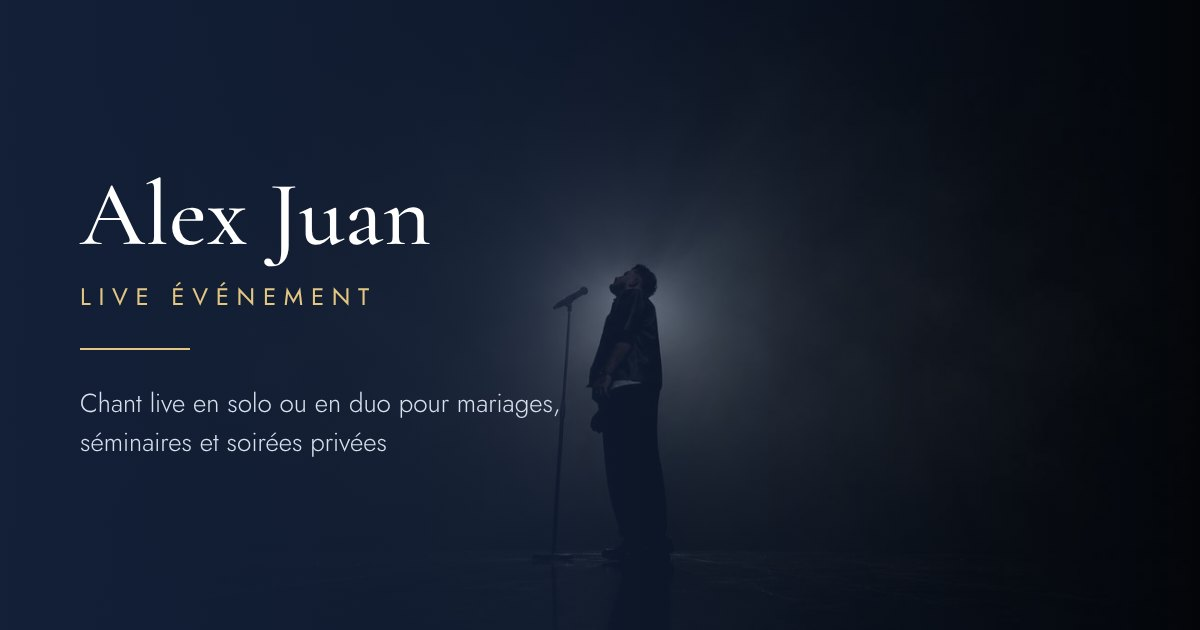
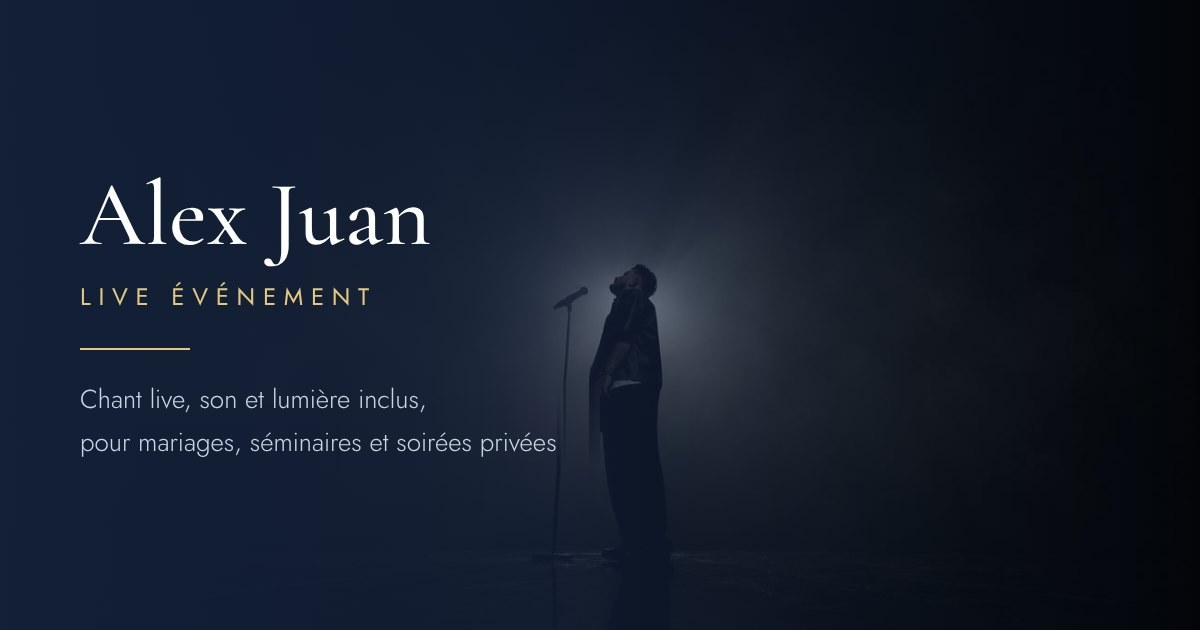
Retrait de Camille du site, du formulaire et de l'espace pro
- Équipe : Alex Juan et Antonin (« Deux talents, une seule équipe »)
- Textes, descriptions et image de partage sans « solo ou duo »
- Formulaire sans choix d'artiste ; formule unique dans les devis

Claude-Session: https://claude.ai/code/session_01Bc1aB6jKnjq8iinLhSTLZx

Changed region(s): [[0.0617, 0.6032, 0.4625, 0.6635], [0.0617, 0.6937, 0.4625, 0.7238]]

diff --git a/index.html b/index.html
@@ -4,7 +4,7 @@
 <meta charset="utf-8">
 <meta name="viewport" content="width=device-width, initial-scale=1, viewport-fit=cover">
 <title>Chanteur live pour mariage à Bordeaux et en Gironde | Alex Juan Live Événement</title>
-<meta name="description" content="Alex Juan Live Événement : chanteurs live en solo ou en duo, son et lumière inclus, pour mariages, séminaires et soirées privées. Basés près de Bordeaux (Gironde), nous intervenons dans toute la Nouvelle-Aquitaine et partout en France.">
+<meta name="description" content="Alex Juan Live Événement : chant live, son et lumière inclus, pour mariages, séminaires et soirées privées. Basés près de Bordeaux (Gironde), nous intervenons dans toute la Nouvelle-Aquitaine et partout en France.">
 <link rel="alternate" hreflang="fr" href="https://live.alexjuan.com/">
 <link rel="alternate" hreflang="en" href="https://live.alexjuan.com/en/">
 <link rel="alternate" hreflang="x-default" href="https://live.alexjuan.com/">
@@ -21,9 +21,9 @@
 <meta property="og:locale" content="fr_FR">
 <meta property="og:site_name" content="Alex Juan Live Événement">
 <meta property="og:title" content="Alex Juan Live Événement">
-<meta property="og:description" content="Chant live en solo ou en duo, son et lumière inclus, pour mariages, séminaires et soirées privées. Basés près de Bordeaux, partout en France.">
+<meta property="og:description" content="Chant live, son et lumière inclus, pour mariages, séminaires et soirées privées. Basés près de Bordeaux, partout en France.">
 <meta property="og:url" content="https://live.alexjuan.com/">
-<meta property="og:image" content="https://live.alexjuan.com/assets/og-image.jpg?v=2">
+<meta property="og:image" content="https://live.alexjuan.com/assets/og-image.jpg?v=3">
 <meta property="og:image:width" content="1200">
 <meta property="og:image:height" content="630">
 <meta name="twitter:card" content="summary_large_image">
@@ -363,7 +363,7 @@ nav .langmenu a[aria-current]::after{content:"✓"}
 .hero .eq i{width:2px;height:4px;animation-name:barsoft}
 @keyframes barsoft{50%{height:18px}}
 </style>
-<script type="application/ld+json">{"@context":"https://schema.org","@type":["MusicGroup","LocalBusiness"],"name":"Alex Juan Live Événement","description":"Chant live en solo ou en duo, son et lumière inclus, pour mariages, séminaires et soirées privées.","url":"https://live.alexjuan.com/","email":"contact@alexjuan.com","telephone":"+33627330380","address":{"@type":"PostalAddress","streetAddress":"6 avenue Maryse Bastié","addressLocality":"Bruges","postalCode":"33520","addressRegion":"Gironde","addressCountry":"FR"},"sameAs":["https://www.instagram.com/alexjuanoff/","https://www.tiktok.com/@alexjuanoff","https://www.youtube.com/@alexjuanofficiel","https://open.spotify.com/artist/4G3rz3swIwkBHNyaX5E4CF"],"image":"https://live.alexjuan.com/assets/og-image.jpg?v=2","areaServed":[{"@type":"City","name":"Bordeaux"},{"@type":"AdministrativeArea","name":"Gironde"},{"@type":"AdministrativeArea","name":"Nouvelle-Aquitaine"},{"@type":"Country","name":"France"}],"genre":["Chanson française","Variété"]}</script>
+<script type="application/ld+json">{"@context":"https://schema.org","@type":["MusicGroup","LocalBusiness"],"name":"Alex Juan Live Événement","description":"Chant live, son et lumière inclus, pour mariages, séminaires et soirées privées.","url":"https://live.alexjuan.com/","email":"contact@alexjuan.com","telephone":"+33627330380","address":{"@type":"PostalAddress","streetAddress":"6 avenue Maryse Bastié","addressLocality":"Bruges","postalCode":"33520","addressRegion":"Gironde","addressCountry":"FR"},"sameAs":["https://www.instagram.com/alexjuanoff/","https://www.tiktok.com/@alexjuanoff","https://www.youtube.com/@alexjuanofficiel","https://open.spotify.com/artist/4G3rz3swIwkBHNyaX5E4CF"],"image":"https://live.alexjuan.com/assets/og-image.jpg?v=3","areaServed":[{"@type":"City","name":"Bordeaux"},{"@type":"AdministrativeArea","name":"Gironde"},{"@type":"AdministrativeArea","name":"Nouvelle-Aquitaine"},{"@type":"Country","name":"France"}],"genre":["Chanson française","Variété"]}</script>
 <script type="application/ld+json">{"@context":"https://schema.org","@type":"FAQPage","mainEntity":[{"@type":"Question","name":"Combien de temps dure une prestation ?","acceptedAnswer":{"@type":"Answer","text":"De 1 h à la soirée entière, selon vos besoins."}},{"@type":"Question","name":"Vous déplacez-vous loin ?","acceptedAnswer":{"@type":"Answer","text":"Partout en France et à l'étranger. Les frais de déplacement sont inclus dans le devis."}},{"@type":"Question","name":"Combien de temps à l'avance faut-il réserver ?","acceptedAnswer":{"@type":"Answer","text":"Le plus tôt possible : les samedis de mai à septembre partent vite, souvent 6 à 12 mois avant."}},{"@type":"Question","name":"De quoi avez-vous besoin sur place ?","acceptedAnswer":{"@type":"Answer","text":"D'une prise électrique et d'un espace d'environ 3 × 3 m. Nous apportons tout le son et la lumière."}},{"@type":"Question","name":"Pouvez-vous chanter une chanson qui n'est pas dans votre répertoire ?","acceptedAnswer":{"@type":"Answer","text":"Oui, sur demande, si vous nous la donnez au moins 1 mois avant l'événement."}},{"@type":"Question","name":"Jouez-vous en extérieur ?","acceptedAnswer":{"@type":"Answer","text":"Oui, à condition d'avoir un abri en cas de pluie."}},{"@type":"Question","name":"Faut-il prévoir un repas pour l'équipe ?","acceptedAnswer":{"@type":"Answer","text":"Pour une prestation qui couvre le dîner, nous vous demandons de prévoir un repas pour l'équipe."}}]}</script>
 </head>
 <body>
@@ -394,7 +394,7 @@ nav .langmenu a[aria-current]::after{content:"✓"}
 </g>
 </svg>
 <h1 class="split">Un show live <span class="gold">d'exception</span> pour vos plus beaux moments</h1>
-<p>Alex Juan, Camille ou les deux en duo, avec son et lumière inclus : mariages, séminaires et soirées d'entreprise, depuis Bordeaux et partout en France.</p>
+<p>Alex Juan en live, avec son et lumière inclus : mariages, séminaires et soirées d'entreprise, depuis Bordeaux et partout en France.</p>
 <a href="#contact" class="btn">Demander un devis gratuit</a>
 <div class="eq" aria-hidden="true"></div>
 </div>
@@ -423,7 +423,7 @@ nav .langmenu a[aria-current]::after{content:"✓"}
 <div class="duo2"><div class="steps" style="text-align:left;margin:0;max-width:none">
 <div class="step rv"><h3>Accueil et cocktail</h3><p>Ambiance douce, voix posées et reprises élégantes.</p></div>
 <div class="step rv"><h3>Dîner</h3><p>Des sets calibrés pour laisser place aux discussions et aux discours.</p></div>
-<div class="step rv"><h3>Le grand show</h3><p>Le show prend toute sa dimension : medleys, moments forts et, en formule duo, des duos Alex & Camille.</p></div>
+<div class="step rv"><h3>Le grand show</h3><p>Le show prend toute sa dimension : medleys, moments forts et refrains repris en chœur par vos invités.</p></div>
 <div class="step rv"><h3>Ouverture de bal</h3><p>La piste s'ouvre sur les chansons que tout le monde chante.</p></div>
 </div>
 <div class="pic tall alive"><img src="assets/concert.jpg" alt="Moment de concert au milieu du public"></div>
@@ -457,11 +457,10 @@ nav .langmenu a[aria-current]::after{content:"✓"}
 
 <section class="team" id="equipe">
 <div class="wrap center">
-<h2 class="split">Trois talents, une seule équipe</h2>
+<h2 class="split">Deux talents, une seule équipe</h2>
 <p class="lead rv">Une équipe qui travaille ensemble, de l'installation au dernier rappel.</p>
 <div class="grid">
 <div class="card rv"><div class="avatar"><img src="assets/avatar-alex.jpg?v=2" alt="Alex Juan"></div><h3>Alex Juan</h3><p>Chanteur et voix du show. Il porte le spectacle et construit le répertoire avec vous.</p></div>
-<div class="card rv"><div class="avatar"><img src="assets/avatar-camille.jpg?v=2" alt="Camille" loading="lazy"></div><h3>Camille</h3><p>Chanteuse et choriste. Elle prend la scène en solo sur certains titres, partage des duos avec Alex et apporte de la profondeur aux voix.</p></div>
 <div class="card rv"><div class="avatar"><img src="assets/avatar-antonin.jpg?v=2" alt="Antonin" loading="lazy"></div><h3>Antonin</h3><p>Ingénieur son et lumière. Présent à chaque prestation, il installe, règle et veille à ce que chaque invité entende et voie parfaitement.</p></div>
 </div>
 </div>
@@ -502,7 +501,7 @@ nav .langmenu a[aria-current]::after{content:"✓"}
 <label class="dt" id="dt-wrap"><span>Date de l'événement</span><input id="f-date" type="date" aria-label="Date de l'événement"></label>
 <div class="ac"><input id="f-lieu" placeholder="Lieu (ville, salle…)" aria-label="Lieu de l'événement" autocomplete="off" role="combobox" aria-autocomplete="list" aria-expanded="false" aria-controls="lieu-list"><ul id="lieu-list" role="listbox" hidden></ul></div>
 <select id="f-type" aria-label="Type d'événement"><option>Mariage</option><option>Séminaire / entreprise</option><option>Événement privé</option></select>
-<fieldset class="artists" id="f-artist"><legend>Artiste souhaité</legend><div class="art-row"><label class="art"><input type="radio" name="artiste" value="Alex Juan"><span class="art-in"><span class="art-pics"><img src="assets/avatar-alex.jpg?v=2" alt=""></span><b>Alex Juan</b><small>en solo</small></span></label><label class="art"><input type="radio" name="artiste" value="Camille"><span class="art-in"><span class="art-pics"><img src="assets/avatar-camille.jpg?v=2" alt=""></span><b>Camille</b><small>en solo</small></span></label><label class="art"><input type="radio" name="artiste" value="Alex & Camille"><span class="art-in"><span class="art-pics"><img src="assets/avatar-alex.jpg?v=2" alt=""><img src="assets/avatar-camille.jpg?v=2" alt=""></span><b>Alex & Camille</b><small>en duo</small></span></label></div><p class="art-note">Antonin, notre ingénieur son et lumière, est présent à chaque prestation.</p></fieldset>
+<p class="art-note">Antonin, notre ingénieur son et lumière, est présent à chaque prestation.</p>
 <textarea id="f-msg" rows="10" placeholder="Un mot sur votre projet" aria-label="Votre message"></textarea>
 </div>
 <button class="btn" id="send" type="button">Envoyer ma demande</button>
@@ -573,14 +572,13 @@ inp.addEventListener('keydown',function(e){if(ul.hidden)return;if(e.key==='Arrow
 else if(e.key==='Enter'&&cur>=0){e.preventDefault();pick(cur)}else if(e.key==='Escape')close()});
 inp.addEventListener('blur',function(){setTimeout(close,150)})})();
 // Sends the request straight to the inbox through FormSubmit; falls back to the visitor's mail app if the service can't be reached.
-[].forEach.call(document.querySelectorAll('input[name=artiste]'),function(r){r.addEventListener('change',function(){document.getElementById('f-artist').classList.remove('bad')})});
 var MAIL='contact@alexjuan.com',FORM_ID='7e1adee14a65debe62f66d12ed0c07de',btn=document.getElementById('send'),st=document.getElementById('f-status');
 function say(t,c){st.textContent=t;st.className='fstatus'+(c?' '+c:'')}
 btn.onclick=function(){
 var v=function(i){return document.getElementById(i).value.trim()};
 if(v('f-honey'))return;
 var miss=[];[['f-nom','votre nom'],['f-email','votre email']].forEach(function(f){var el=document.getElementById(f[0]),bad=!v(f[0])||(f[0]==='f-email'&&!el.checkValidity());el.classList.toggle('bad',bad);if(bad)miss.push(f[1])});
-var art=document.querySelector('input[name=artiste]:checked'),artBox=document.getElementById('f-artist');artBox.classList.toggle('bad',!art);if(!art)miss.push('l\'artiste souhaité');
+var art={value:'Alex Juan'};
 if(miss.length){say('Merci d\'indiquer '+miss.join(' et ')+'.','err');return}
 var d=v('f-date'),dd=d?new Date(d+'T12:00').toLocaleDateString('fr-FR',{weekday:'long',day:'numeric',month:'long',year:'numeric'}):'';
 var data={_subject:'Nouvelle demande – '+v('f-type')+' – '+art.value+(dd?' le '+dd:''),_replyto:v('f-email'),_template:'table',
@@ -590,7 +588,7 @@ data['Devis']='live.alexjuan.com/pro/?'+new URLSearchParams({nom:v('f-nom'),emai
 btn.disabled=true;say('Envoi en cours…');
 fetch('https://formsubmit.co/ajax/'+FORM_ID,{method:'POST',headers:{'Content-Type':'application/json','Accept':'application/json'},body:JSON.stringify(data)})
 .then(function(r){return r.json().then(function(j){if(!r.ok||String(j.success)!=='true')throw 0})})
-.then(function(){say('Merci ! Votre demande est bien envoyée, nous vous répondons sous 24 h.','ok');['f-nom','f-email','f-tel','f-lieu','f-date'].forEach(function(i){document.getElementById(i).value=''});dw.classList.remove('has');var c=document.querySelector('input[name=artiste]:checked');if(c)c.checked=false;edited=false;fill()})
+.then(function(){say('Merci ! Votre demande est bien envoyée, nous vous répondons sous 24 h.','ok');['f-nom','f-email','f-tel','f-lieu','f-date'].forEach(function(i){document.getElementById(i).value=''});dw.classList.remove('has');edited=false;fill()})
 .catch(function(){say('L\'envoi n\'a pas fonctionné : votre messagerie va s\'ouvrir pour nous écrire directement.','err');
 var body='Nom : '+data['Nom']+'\nEmail : '+data['Email']+'\nTéléphone : '+data['Téléphone']+'\nDate : '+dd+'\nLieu : '+data['Lieu']+'\nType : '+data['Type']+'\nArtiste : '+data['Artiste']+'\n\n'+data['Message'];
 location.href='mailto:'+MAIL+'?subject='+encodeURIComponent('Demande de devis')+'&body='+encodeURIComponent(body)})

diff --git a/en/index.html b/en/index.html
@@ -4,7 +4,7 @@
 <meta charset="utf-8">
 <meta name="viewport" content="width=device-width, initial-scale=1, viewport-fit=cover">
 <title>Live wedding singer in Bordeaux, France | Alex Juan Live Événement</title>
-<meta name="description" content="Alex Juan Live Événement: live singers solo or as a duo, sound and lighting included, for weddings, corporate events and private parties. Based near Bordeaux, France, available across France and abroad.">
+<meta name="description" content="Alex Juan Live Événement: live singing, sound and lighting included, for weddings, corporate events and private parties. Based near Bordeaux, France, available across France and abroad.">
 <link rel="alternate" hreflang="fr" href="https://live.alexjuan.com/">
 <link rel="alternate" hreflang="en" href="https://live.alexjuan.com/en/">
 <link rel="alternate" hreflang="x-default" href="https://live.alexjuan.com/">
@@ -22,9 +22,9 @@
 <meta property="og:locale:alternate" content="fr_FR">
 <meta property="og:site_name" content="Alex Juan Live Événement">
 <meta property="og:title" content="Alex Juan Live Événement">
-<meta property="og:description" content="Live singing solo or as a duo, sound and lighting included, for weddings, corporate events and private parties. Based near Bordeaux, France.">
+<meta property="og:description" content="Live singing, sound and lighting included, for weddings, corporate events and private parties. Based near Bordeaux, France.">
 <meta property="og:url" content="https://live.alexjuan.com/en/">
-<meta property="og:image" content="https://live.alexjuan.com/assets/og-image.jpg?v=2">
+<meta property="og:image" content="https://live.alexjuan.com/assets/og-image.jpg?v=3">
 <meta property="og:image:width" content="1200">
 <meta property="og:image:height" content="630">
 <meta name="twitter:card" content="summary_large_image">
@@ -394,7 +394,7 @@ nav .langmenu a[aria-current]::after{content:"✓"}
 </g>
 </svg>
 <h1 class="split">An <span class="gold">exceptional</span> live show for your most beautiful moments</h1>
-<p>Alex Juan, Camille or both as a duo, with sound and lighting included: weddings, corporate events and gala evenings, from Bordeaux across France and abroad.</p>
+<p>Alex Juan live, with sound and lighting included: weddings, corporate events and gala evenings, from Bordeaux across France and abroad.</p>
 <a href="#contact" class="btn">Get a free quote</a>
 <div class="eq" aria-hidden="true"></div>
 </div>
@@ -423,7 +423,7 @@ nav .langmenu a[aria-current]::after{content:"✓"}
 <div class="duo2"><div class="steps" style="text-align:left;margin:0;max-width:none">
 <div class="step rv"><h3>Welcome drinks</h3><p>A soft atmosphere, gentle voices and elegant covers.</p></div>
 <div class="step rv"><h3>Dinner</h3><p>Sets paced to leave room for conversation and speeches.</p></div>
-<div class="step rv"><h3>The big show</h3><p>The show reaches its peak: medleys, highlights and, with the duo, Alex & Camille duets.</p></div>
+<div class="step rv"><h3>The big show</h3><p>The show reaches its peak: medleys, highlights and choruses sung along by your guests.</p></div>
 <div class="step rv"><h3>First dance</h3><p>The dance floor opens with the songs everyone sings along to.</p></div>
 </div>
 <div class="pic tall alive"><img src="../assets/concert.jpg" alt="Concert moment in the middle of the crowd"></div>
@@ -457,11 +457,10 @@ nav .langmenu a[aria-current]::after{content:"✓"}
 
 <section class="team" id="equipe">
 <div class="wrap center">
-<h2 class="split">Three talents, one team</h2>
+<h2 class="split">Two talents, one team</h2>
 <p class="lead rv">A team that works together, from set-up to the final encore.</p>
 <div class="grid">
 <div class="card rv"><div class="avatar"><img src="../assets/avatar-alex.jpg?v=2" alt="Alex Juan"></div><h3>Alex Juan</h3><p>Lead singer and voice of the show. He carries the performance and builds the setlist with you.</p></div>
-<div class="card rv"><div class="avatar"><img src="../assets/avatar-camille.jpg?v=2" alt="Camille" loading="lazy"></div><h3>Camille</h3><p>Singer and backing vocalist. She takes the stage solo on some songs, sings duets with Alex and adds depth to the vocals.</p></div>
 <div class="card rv"><div class="avatar"><img src="../assets/avatar-antonin.jpg?v=2" alt="Antonin" loading="lazy"></div><h3>Antonin</h3><p>Sound and lighting engineer. Part of every show, he sets up, tunes and makes sure every guest hears and sees perfectly.</p></div>
 </div>
 </div>
@@ -502,7 +501,7 @@ nav .langmenu a[aria-current]::after{content:"✓"}
 <label class="dt" id="dt-wrap"><span>Event date</span><input id="f-date" type="date" aria-label="Event date"></label>
 <div class="ac"><input id="f-lieu" placeholder="Venue (city, place…)" aria-label="Event venue" autocomplete="off" role="combobox" aria-autocomplete="list" aria-expanded="false" aria-controls="lieu-list"><ul id="lieu-list" role="listbox" hidden></ul></div>
 <select id="f-type" aria-label="Type of event"><option>Wedding</option><option>Corporate event</option><option>Private event</option></select>
-<fieldset class="artists" id="f-artist"><legend>Preferred artist</legend><div class="art-row"><label class="art"><input type="radio" name="artiste" value="Alex Juan"><span class="art-in"><span class="art-pics"><img src="../assets/avatar-alex.jpg?v=2" alt=""></span><b>Alex Juan</b><small>solo</small></span></label><label class="art"><input type="radio" name="artiste" value="Camille"><span class="art-in"><span class="art-pics"><img src="../assets/avatar-camille.jpg?v=2" alt=""></span><b>Camille</b><small>solo</small></span></label><label class="art"><input type="radio" name="artiste" value="Alex & Camille"><span class="art-in"><span class="art-pics"><img src="../assets/avatar-alex.jpg?v=2" alt=""><img src="../assets/avatar-camille.jpg?v=2" alt=""></span><b>Alex & Camille</b><small>as a duo</small></span></label></div><p class="art-note">Antonin, our sound and lighting engineer, is part of every show.</p></fieldset>
+<p class="art-note">Antonin, our sound and lighting engineer, is part of every show.</p>
 <textarea id="f-msg" rows="10" placeholder="A few words about your project" aria-label="Your message"></textarea>
 </div>
 <button class="btn" id="send" type="button">Send my request</button>
@@ -573,14 +572,13 @@ inp.addEventListener('keydown',function(e){if(ul.hidden)return;if(e.key==='Arrow
 else if(e.key==='Enter'&&cur>=0){e.preventDefault();pick(cur)}else if(e.key==='Escape')close()});
 inp.addEventListener('blur',function(){setTimeout(close,150)})})();
 // Sends the request straight to the inbox through FormSubmit; falls back to the visitor's mail app if the service can't be reached.
-[].forEach.call(document.querySelectorAll('input[name=artiste]'),function(r){r.addEventListener('change',function(){document.getElementById('f-artist').classList.remove('bad')})});
 var MAIL='contact@alexjuan.com',FORM_ID='7e1adee14a65debe62f66d12ed0c07de',btn=document.getElementById('send'),st=document.getElementById('f-status');
 function say(t,c){st.textContent=t;st.className='fstatus'+(c?' '+c:'')}
 btn.onclick=function(){
 var v=function(i){return document.getElementById(i).value.trim()};
 if(v('f-honey'))return;
 var miss=[];[['f-nom','your name'],['f-email','your email']].forEach(function(f){var el=document.getElementById(f[0]),bad=!v(f[0])||(f[0]==='f-email'&&!el.checkValidity());el.classList.toggle('bad',bad);if(bad)miss.push(f[1])});
-var art=document.querySelector('input[name=artiste]:checked'),artBox=document.getElementById('f-artist');artBox.classList.toggle('bad',!art);if(!art)miss.push('the preferred artist');
+var art={value:'Alex Juan'};
 if(miss.length){say('Please enter '+miss.join(' and ')+'.','err');return}
 var d=v('f-date'),dd=d?new Date(d+'T12:00').toLocaleDateString('fr-FR',{weekday:'long',day:'numeric',month:'long',year:'numeric'}):'';
 var data={_subject:'Nouvelle demande (site anglais) – '+v('f-type')+' – '+art.value+(dd?' le '+dd:''),_replyto:v('f-email'),_template:'table',
@@ -590,7 +588,7 @@ data['Devis']='live.alexjuan.com/pro/?'+new URLSearchParams({nom:v('f-nom'),emai
 btn.disabled=true;say('Sending…');
 fetch('https://formsubmit.co/ajax/'+FORM_ID,{method:'POST',headers:{'Content-Type':'application/json','Accept':'application/json'},body:JSON.stringify(data)})
 .then(function(r){return r.json().then(function(j){if(!r.ok||String(j.success)!=='true')throw 0})})
-.then(function(){say('Thank you! Your request has been sent, we will get back to you within 24 hours.','ok');['f-nom','f-email','f-tel','f-lieu','f-date'].forEach(function(i){document.getElementById(i).value=''});dw.classList.remove('has');var c=document.querySelector('input[name=artiste]:checked');if(c)c.checked=false;edited=false;fill()})
+.then(function(){say('Thank you! Your request has been sent, we will get back to you within 24 hours.','ok');['f-nom','f-email','f-tel','f-lieu','f-date'].forEach(function(i){document.getElementById(i).value=''});dw.classList.remove('has');edited=false;fill()})
 .catch(function(){say('Sending failed: your email app will open so you can write to us directly.','err');
 var body='Nom : '+data['Nom']+'\nEmail : '+data['Email']+'\nTéléphone : '+data['Téléphone']+'\nDate : '+dd+'\nLieu : '+data['Lieu']+'\nType : '+data['Type']+'\nArtiste : '+data['Artiste']+'\n\n'+data['Message'];
 location.href='mailto:'+MAIL+'?subject='+encodeURIComponent('Demande de devis')+'&body='+encodeURIComponent(body)})

diff --git a/pro/index.html b/pro/index.html
@@ -244,7 +244,7 @@ td.n,th.n{text-align:right;white-space:nowrap}
 <div class="row"><div><label for="e_type">Type</label><select id="e_type"><option>Mariage</option><option>Séminaire / entreprise</option><option>Événement privé</option></select></div>
 <div><label for="e_date">Date</label><input id="e_date" type="date"></div></div>
 <label for="e_lieu">Lieu</label><input id="e_lieu">
-<div class="row"><div><label for="e_artiste">Formule</label><select id="e_artiste"><option>Alex Juan</option><option>Camille</option><option>Alex &amp; Camille</option></select></div>
+<div class="row"><div><label for="e_artiste">Formule</label><select id="e_artiste"><option>Alex Juan</option></select></div>
 <div><label for="e_duree">Durée de prestation</label><input id="e_duree" placeholder="ex. 4 h"></div></div>
 <label for="e_horaires">Horaires / moments (facultatif)</label><input id="e_horaires" placeholder="ex. vin d'honneur + dîner + ouverture de bal">
 </fieldset>
